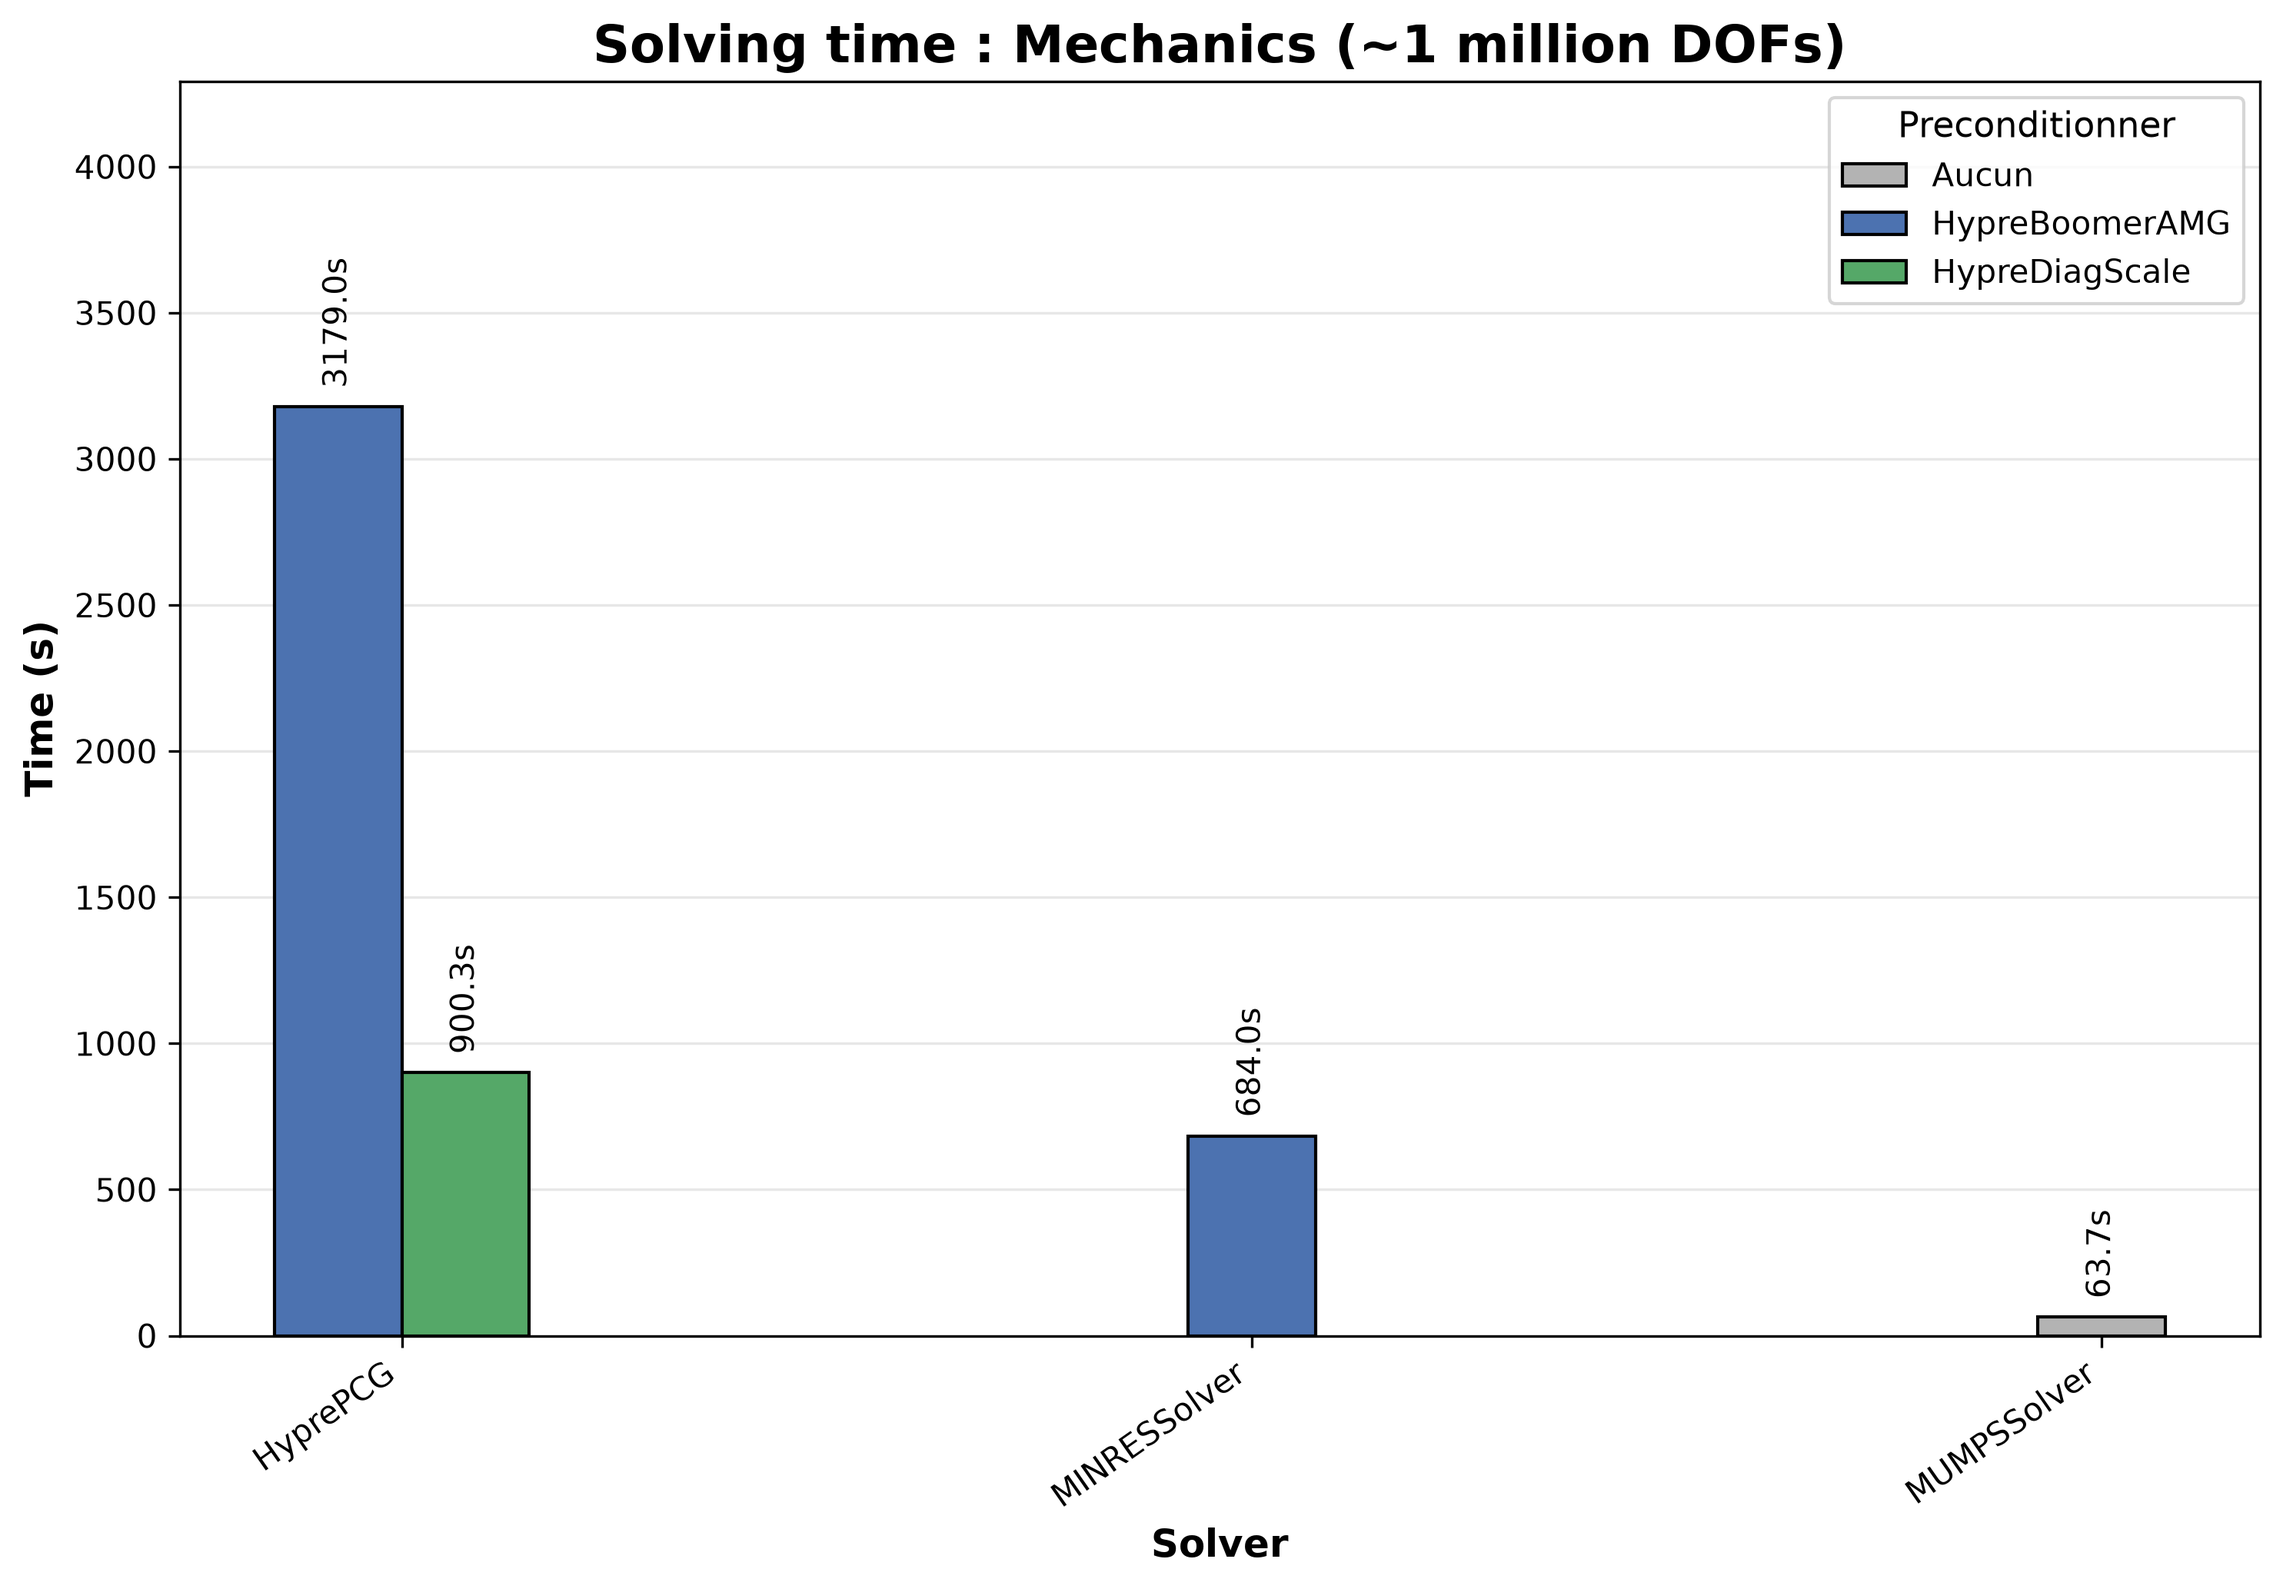
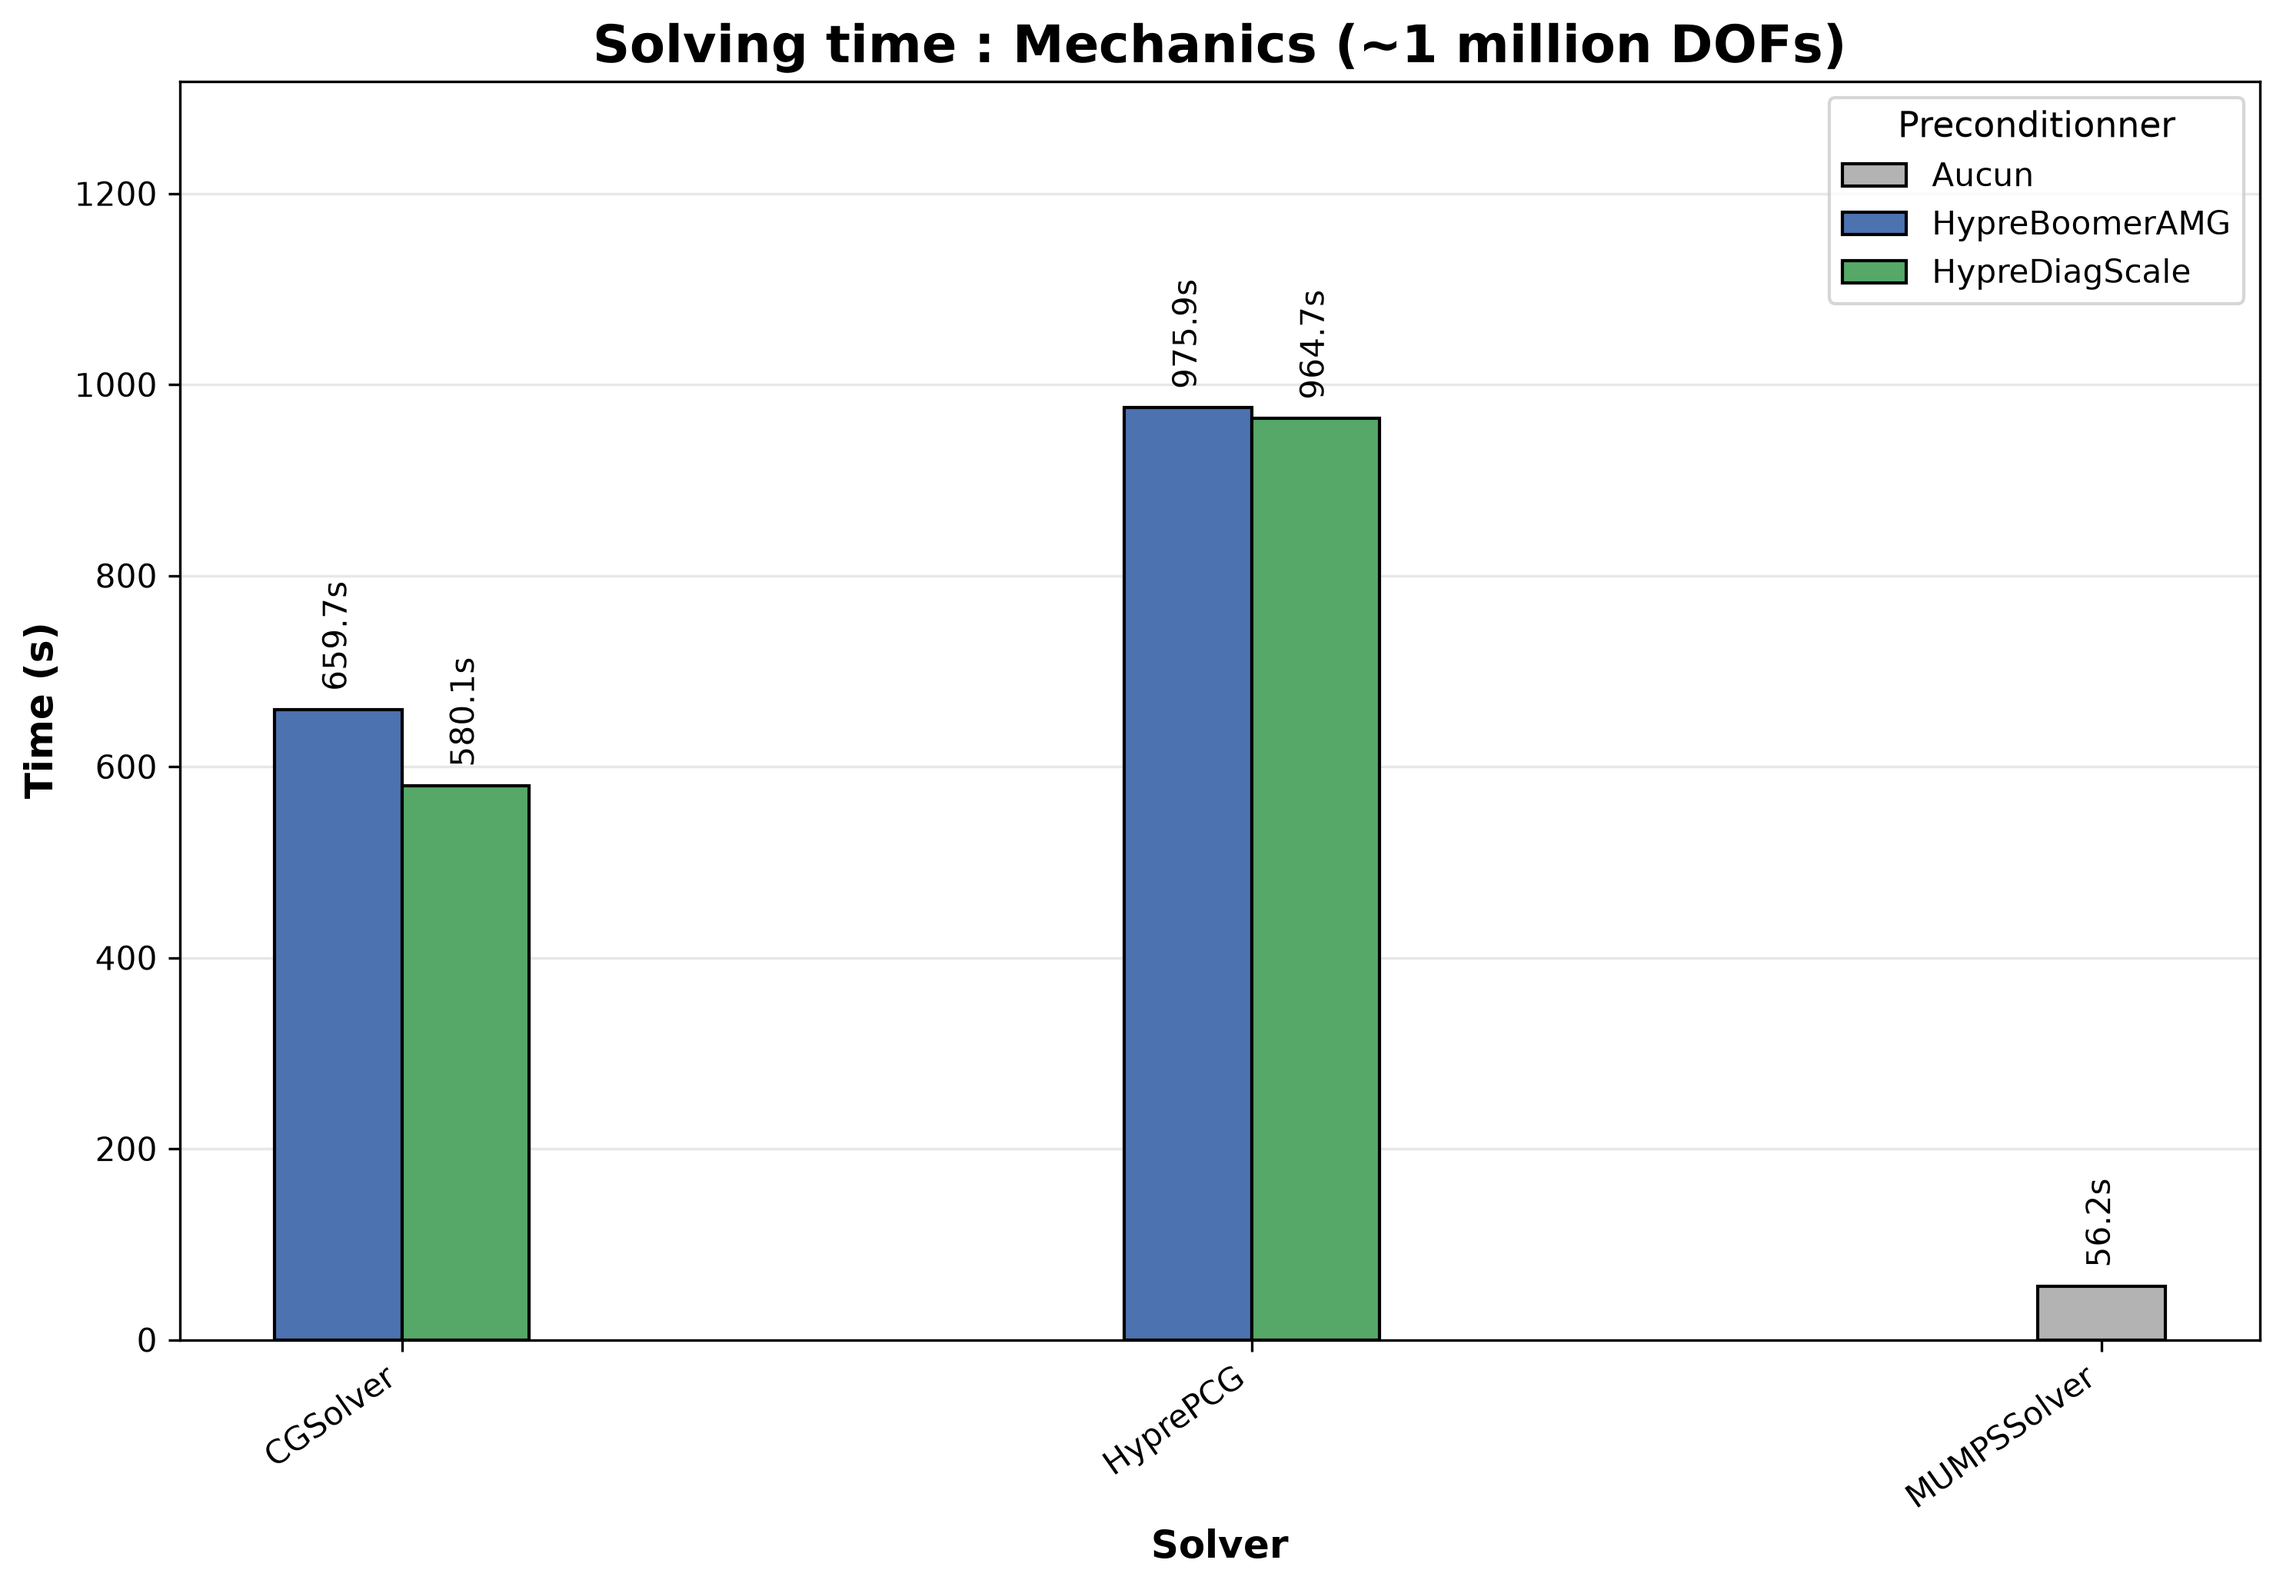
Homogénisation de tous les exemples avec la refonte des timers et la branche 228 de mfem-mgis.

diff --git a/ex8/PostProcessing/SolverPrecondtionner/Plots_SvPc_mech.py b/ex8/PostProcessing/SolverPrecondtionner/Plots_SvPc_mech.py
@@ -5,7 +5,7 @@ import matplotlib.pyplot as plt
 import numpy as np
 from matplotlib.patches import Patch
 
-df = pd.read_csv("aggregation_SvPc_mech_5e4.csv")
+df = pd.read_csv("aggregation_SvPc_mech_1e5.csv")
 
 df["preconditioner"] = df["preconditioner"].fillna("Aucun")
 
